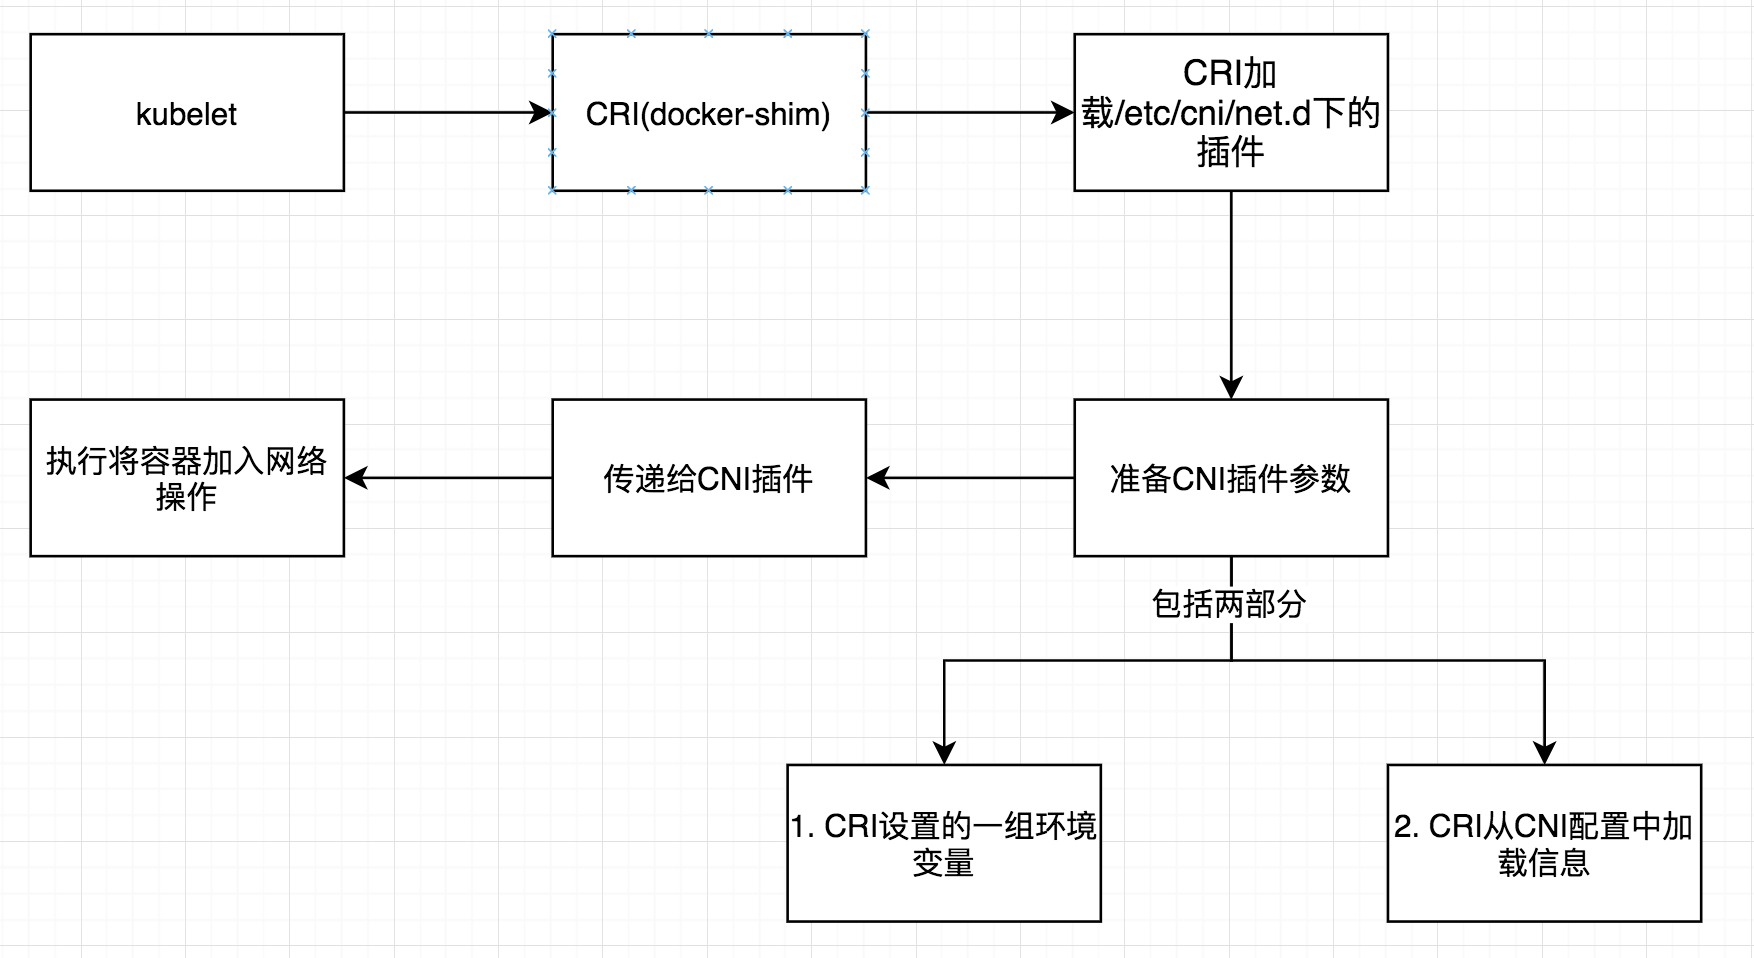
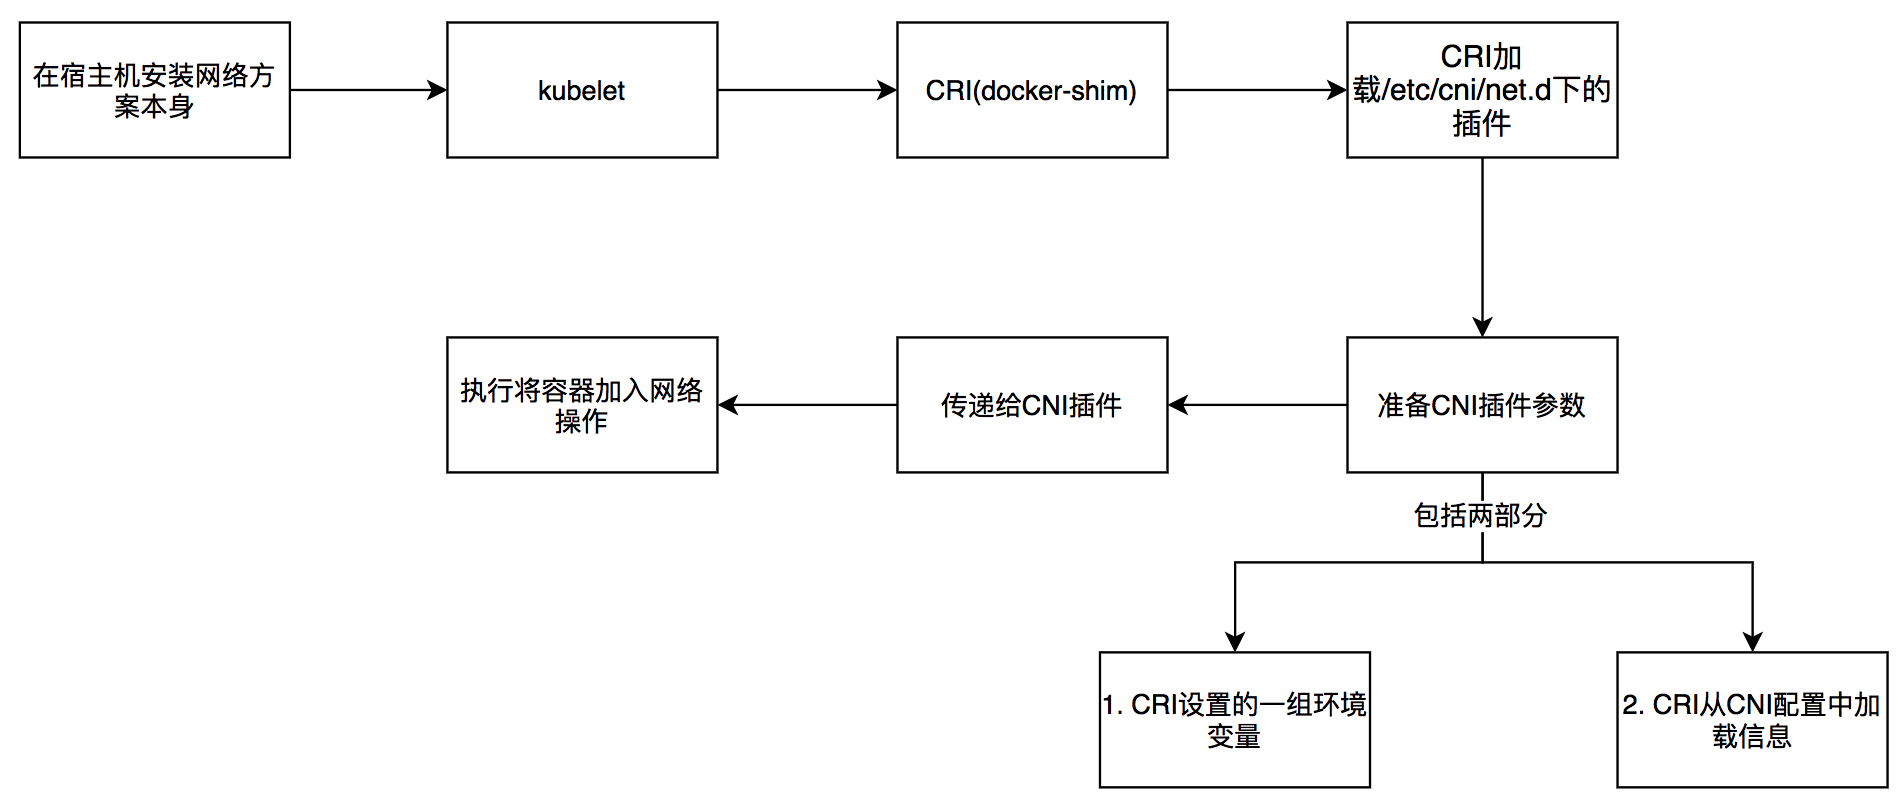
check

diff --git a/src/2020/0204_about_docker_network/README.md b/src/2020/0204_about_docker_network/README.md
@@ -150,13 +150,48 @@ CNI的原理如下图：
 	"type":"bridge"
 }
 ```
+
         + ipam字段里面的信息，比如*10.244.0.0/16*读取自Flannel在宿主机上生成的Flannel配置文件（/run/flannel/subnet.env ）
 - 传递给CNI插件：经过上述步骤后，得到CNI配置的参数，接下来，Flannel CNI插件就会调用CNI bridhe插件，有了上一步骤的两部分配置（环境变量+Network Configration），CNI brige插件就能代替Flannel CNI插件“执行将容器加入网络操作”
 - 执行将容器加入网络操作：
     1. 检查CNI网桥是否存在，如果没有就创建
+```shell
+# 宿主机
+ip link add cni0 type bridg
+ip link set cni0 up
+```
+    2.  CNI bridge插件会通过infra容器的Network Namespace文件进入Network Namespace，创建veth pair设备
+```shell
+# 在容器里
+# 创建一对 Veth Pair 设备。其中一个叫作 eth0，另一个叫作 vethb4963f3
+ip link add eth0 type veth peer name vethb4963f3
 
-    2. 
+# 启动 eth0 设备
+ip link set eth0 up
 
+# 将 Veth Pair 设备的另一端(也就是 vethb4963f3 设备)放到宿主机(也就是 Host Namespace)里
+ip link set vethb4963f3 netns $HOST_NS
+# 通过 Host Namespace，启动宿主机上的 vethb4963f3 设备
+ip netns exec $HOST_NS ip link set vethb4963f3 up
+```
+    3. CNI bridge 插件就可以把 vethb4963f3 设备连接在 CNI 网桥上
+```shell
+# 在宿主机上
+ip link set vethb4963f3 master cni0
+```
+    4. CNI bridge 插件会为cni0网桥设置Hairpin Mode
+    5. 调用ipam插件从网段中分配一个ip，把ip添加到容器的eth0网卡同时设置默认路由
+```shell
+# 在容器里
+ip addr add 10.244.0.2/24 dev eth0
+ip route add default via 10.244.0.1 dev eth0
+```
+    6. CNI Bridge插件为CNI网桥添加ip地址
+```shell
+# 在宿主机上
+ip addr add 10.244.0.1/24 dev cni0
+```
+    7. 所有操作结束之后，CNI插件会把容器的IP等信息返回给dockershim，然后被kubelet添加到POD的status字段
 
 
 
@@ -318,3 +353,4 @@ eth12: flags=4163<UP,BROADCAST,RUNNING,MULTICAST>  mtu 1500
 ## 参考
 - [浅聊几种主流 Docker 网络的实现原理](https://www.infoq.cn/article/9vfPPfZPrXLM4ssLlxSR)
 - https://www.jianshu.com/p/3b9389084701
+- 极客时间《深入剖析kubernetes》
